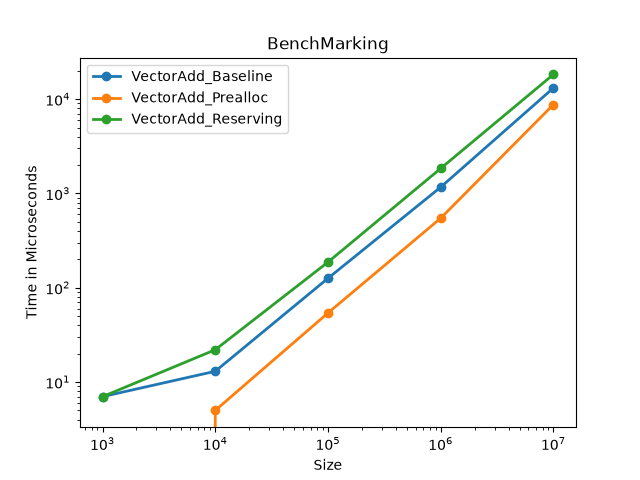
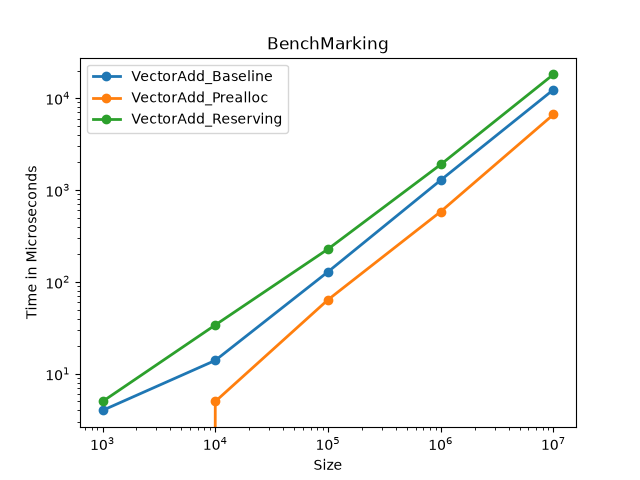
matrix plotting

diff --git a/src/benchmark/main.cpp b/src/benchmark/main.cpp
@@ -62,46 +62,60 @@ void runMatrixBenchmarks()
 	Timer timer_baseline;
 	Timer timer_loopReordered;
 	Timer timer_cacheTilling;
+	BenchMarkReporter reporter;
 
-	size_t tileSize = 64;
-	size_t N = 1000;
-	std::vector<int> matrixA(N * N, 4);
-	std::vector<int> matrixB(N * N, 2);
-	std::vector<int> result(N * N, 0);
+	std::vector<size_t> testSizes = { 250, 500, 750, 1000, 1500 };
 
-	timer_baseline.Start();
-	multiplyMatrices_baseline(matrixA, matrixB, result, N);
-	timer_baseline.Stop();
+	for (size_t N : testSizes)
+	{
+		size_t tileSize = 64;
+		std::vector<int> matrixA(N * N, 4);
+		std::vector<int> matrixB(N * N, 2);
+		std::vector<int> result(N * N, 0);
 
-	double duration_baseline = timer_baseline.elapsedMicroseconds();
+		timer_baseline.Start();
+		multiplyMatrices_baseline(matrixA, matrixB, result, N);
+		timer_baseline.Stop();
 
-	// clearing out result vector for next implementation
-	std::fill(result.begin(), result.end(), 0);
-
-	timer_loopReordered.Start();
-	multiplyMatrices_loopReordered(matrixA, matrixB, result, N);
-	timer_loopReordered.Stop();
-
-	double duration_loopReordered = timer_loopReordered.elapsedMicroseconds();
-
-	// clearing out results again
-	std::fill(result.begin(), result.end(), 0);
-
-	timer_cacheTilling.Start();
-	multiplyMatrices_cacheTiling(matrixA, matrixB, result, N, tileSize);
-	timer_cacheTilling.Stop();
-
-	double duration_cacheTiling = timer_cacheTilling.elapsedMicroseconds();
+		double duration_baseline = timer_baseline.elapsedMicroseconds();
+		reporter.addRecords("MultiplyMatrices_Baseline", N * N, duration_baseline);
 
 
-	
-	std::cout << "Duration_Baseline: " << duration_baseline << " Microseconds..." << std::endl;
-	std::cout << "Duration_LoopReordered: " << duration_loopReordered << " Microseconds..." << std::endl;
-	std::cout << "Duration_cacheTiling: " << duration_cacheTiling << " Microseconds..." << std::endl;
+		// clearing out result vector for next implementation
+		std::fill(result.begin(), result.end(), 0);
+
+		timer_loopReordered.Start();
+		multiplyMatrices_loopReordered(matrixA, matrixB, result, N);
+		timer_loopReordered.Stop();
+
+		double duration_loopReordered = timer_loopReordered.elapsedMicroseconds();
+		reporter.addRecords("MultiplyMatrices_LoopReordered", N * N, duration_loopReordered);
+
+
+		// clearing out results again
+		std::fill(result.begin(), result.end(), 0);
+
+		timer_cacheTilling.Start();
+		multiplyMatrices_cacheTiling(matrixA, matrixB, result, N, tileSize);
+		timer_cacheTilling.Stop();
+
+		double duration_cacheTiling = timer_cacheTilling.elapsedMicroseconds();
+		reporter.addRecords("MultiplyMatrices_cacheTiling", N * N, duration_cacheTiling);
+
+	}
+
+	std::cout << "Saving to Csv...\n";
+	reporter.saveToCsv("../../../results/Matrix_results.csv");
+
+	std::cout << "Visualizing..\n";
+	std::system("python \"../../../scripts/results_matrix_plot.py\"");
+
+	std::cout << "Matrix BenchMarking completed\n";
 
 }
 
 int main()
 {
+	runVectorBenchmarks();
 	runMatrixBenchmarks();
 }

diff --git a/scripts/results_matrix_plot.py b/scripts/results_matrix_plot.py
@@ -1,0 +1,39 @@
+import pandas as pd
+import matplotlib.pyplot as plt
+from pathlib import Path
+
+
+script_dir = Path(__file__).parent
+
+csv_path = script_dir.parent / "results" / "Matrix_results.csv"
+graph_path = script_dir.parent / "plots" / "Matrix_Benchmarking.png"
+
+df = pd.read_csv(csv_path)
+
+df.columns = df.columns.str.strip()
+
+for algo, grp in df.groupby("Algorithm"):
+
+    sorted_grp = grp.sort_values("InputSize")
+
+    plt.plot(
+        sorted_grp["InputSize"],
+        sorted_grp["TimeMicroseconds"],
+        label = algo,
+        marker = 'o',
+        linewidth = 2,
+        )
+
+plt.xscale('log')
+plt.yscale('log')
+
+plt.legend()
+
+plt.xlabel("Size")
+plt.ylabel("Time in Microseconds")
+
+plt.title("BenchMarking")
+
+plt.savefig(graph_path)
+
+plt.show()

diff --git a/docs/MatrixMultiplication_Log.md b/docs/MatrixMultiplication_Log.md
@@ -4,33 +4,48 @@
 **Environment:** MSVC / x86 / Release Mode  
 
 ## Introduction
-Moving from 1D Memory-Bound algorithms to 2D Compute-Bound algorithms.
-The goal is to benchmark an O(N^3) baseline matrix multiplication and explore CPU caching strategies.
+Moving from 1D Memory-Bound algorithms to 2D Compute-Bound algorithms. My goal here was to see what happens when the CPU has to do way more math than memory reading, benchmarking an O(N^3) matrix multiplication and exploring CPU caching strategies.
 
-## Phase 1: The O(N^3) Baseline & Flattened Arrays
-To build a compute-bound workload, I implemented a standard Matrix Multiplication (GEMM). 
-* **The Architecture:** I specifically avoided `std::vector<std::vector<int>>` because it fractures memory across the heap. Instead, I used a single flattened 1D array and mathematically treated it as a 2D grid using the formula `index = (row * N) + col`.
-* **The Baseline (i-j-k):** I wrote the standard triple-nested loop. At $N=500$ (125 million operations), it took **~86,120 µs**. 
-* **The Bottleneck:** While testing, I realized the innermost loop (`k`) reads Matrix B vertically. This means it jumps hundreds of memory addresses on every single tick, completely destroying the CPU's L1 Cache and causing millions of "Cache Misses."
+## Phase 1: The Baseline & Flattened Arrays
+To build a heavy workload, I started by implementing a standard, "dumb" Matrix Multiplication (also known as GEMM). 
 
-## Phase 2: Spatial Locality & Loop Reordering (i-k-j)
+* **What I built:** I specifically avoided making a vector of vectors (`std::vector<std::vector<int>>`) because I learned that fractures memory across the heap. Instead, I used a single flattened 1D array and mathematically pretended it was a 2D grid using the formula `index = (row * N) + col`. I wrapped this in the standard `i-j-k` triple nested loop.
+* **Baseline Time (N=500):** ~86,120 µs for 125 million operations.
+* **The Discovery:** While thinking about the loops, I realized a massive bottleneck. The innermost loop (`k`) was reading Matrix B vertically. This meant the CPU was jumping over hundreds of memory addresses on every single tick, completely destroying the L1 Cache and causing millions of slow "Cache Misses."
+
+## Phase 2: Spatial Locality & Loop Reordering
 To fix the cache thrashing, I applied a technique called **Loop Reordering**.
-* **The Fix:** By simply swapping the order of the inner two loops from `i-j-k` to `i-k-j`, I aligned the math so that the CPU reads both Matrix A and Matrix B in perfectly straight, horizontal contiguous lines.
-* **The "Too Smart" Compiler:** At $N=500$, the reordered loop was only 6% faster than the baseline. I learned this is because modern C++ compilers (like MSVC in Release Mode) are smart enough to recognize inefficient matrix math and partially optimize it behind the scenes using Auto-Vectorization. I was racing the compiler against itself!
-* **Breaking the Compiler ($N=1000$):** To truly test the hardware, I scaled the matrix up to $1000 \times 1000$ (1 Billion operations). At this scale, the compiler's safety net failed, and memory limits took over:
+
+* **The Fix:** I simply swapped the order of the inner two loops from `i-j-k` to `i-k-j`. This aligned the math perfectly so the CPU reads both Matrix A and Matrix B in straight, horizontal, contiguous lines.
+* **The "Too Smart" Compiler:** At $N=500$, my new reordered loop was only 6% faster! I was super confused until I learned that modern C++ compilers (like MSVC in Release Mode) are smart enough to recognize bad matrix math and partially fix it behind the scenes using Auto-Vectorization. I was racing the compiler against itself.
+* **Breaking the Compiler:** To actually test the hardware, I scaled the matrix up to $N=1000$ (1 Billion operations). At this massive scale, the compiler's safety net failed, and memory limits took over:
   * **Baseline (1 Billion Ops):** 858,683 µs
   * **Loop Reordered (1 Billion Ops):** 655,855 µs
-  * **Conclusion:** Reordering the loops yielded a massive ~23% speedup, proving the critical importance of Spatial Locality (accessing data close together in memory).
+* **Conclusion:** Just by swapping two lines of code, I got a massive ~23% speedup. This proved the golden rule of memory: **Spatial Locality** (accessing data that lives close together in RAM) is absolutely critical for performance.
 
 ## Phase 3: Pushing the L1 Cache (Cache Tiling)
-To hit the true physical limits of the hardware, I implemented Cache Tiling (Loop Blocking). 
-* **The Architecture:** I wrapped the `i-k-j` algorithm in three outer control loops to chop the $1000 \times 1000$ matrix into tiny $64 \times 64$ sub-grids. The goal was to force the math to happen entirely inside the CPU's 32KB L1 Cache, eliminating Cache Misses completely.
-* **The Benchmark:**
+I wanted to hit the true physical limits of the hardware, so I tried a famous optimization called **Cache Tiling** (or Loop Blocking). 
+
+* **What I built:** I wrapped my algorithm in three extra outer control loops to chop the giant $1000 \times 1000$ matrix into tiny $64 \times 64$ sub-grids. The idea was to force the math to happen entirely inside the CPU's tiny 32KB L1 Cache, eliminating RAM lookups completely.
+* **The Benchmark (N=1000):**
   * Baseline: 880,911 µs
   * Loop Reordered: 642,604 µs
   * Cache Tiling: 715,440 µs
-* **The "Overhead Trap":** Surprisingly, the tiled version was slower than the simple reordered version! I discovered three reasons why:
-  1. **Branching Overhead:** The inner loops relied on `std::min()` to prevent out-of-bounds errors, forcing the CPU to evaluate millions of extra `if/else` conditions.
-  2. **Compiler Confusion:** The 6-deep nested loop structure with dynamic bounds confused the MSVC compiler, causing it to abandon Auto-Vectorization (SIMD) safety nets.
-  3. **Loop Management:** The sheer overhead of managing 6 integer counters outweighed the memory speed gained from the L1 cache at $N=1000$.
-* **Conclusion:** While Cache Tiling is the theoretical peak of memory optimization, in raw C++, architectural overhead can defeat hardware caching. To go faster without dropping into raw Assembly language, I have to stop optimizing a single core and start using the whole CPU.
+* **What happened?** I fell into the "Overhead Trap." Surprisingly, my highly complex tiled version was slower than the simple reordered version! 
+* **The Reason:** My inner loops needed `std::min()` checks to prevent the tiles from going out of bounds. This forced the CPU to evaluate millions of extra `if/else` branch conditions. Plus, managing 6 nested loop counters confused the C++ compiler so much that it gave up on using SIMD hardware acceleration. 
+* **Conclusion:** While Cache Tiling is the theoretical peak of memory optimization, in standard C++, adding too much architectural overhead can actually defeat hardware caching. 
+
+## Phase 4: Automated Pipeline & O(N^3) Visualization
+Just like with my vector addition, I wanted to see how these algorithms scaled, so I plugged them into my automated C++ testing pipeline and Python grapher.
+
+* **The Setup:** The C++ suite dynamically scaled $N$ from 250 up to 1500, cleared the memory safely between tests, recorded the execution times, and auto-generated `Matrix_results.csv`.
+* **The Log-Log Trick:** Because matrix multiplication scales at $O(N^3)$ (a cubic relationship), putting the results on a normal linear graph completely squished the smaller inputs together, while the massive $N=1500$ times exploded vertically off the chart. I applied a `log-log` scale to both axes in Python to flatten the exponential growth into straight lines, making it perfectly readable.
+* **The Visual Proof:** The graph proved definitively that the `Loop Reordered (i-k-j)` algorithm is the absolute champion of single-core C++ performance, saving nearly a full second of execution time at N=1500 compared to the baseline.
+
+## Final Takeaways
+Through building compute-bound matrices, I learned:
+1. The order of your loops dictates your memory speed. Read data horizontally whenever possible.
+2. The C++ Compiler is smart, but you can break its safety nets with big enough data.
+3. Complex optimizations (like Tiling) can backfire if the loop overhead and branching logic outweigh the cache benefits.
+4. I have officially pushed a single CPU core to its absolute mathematical limit in C++. To go any faster, I have to wake up the rest of the machine.
+1. 